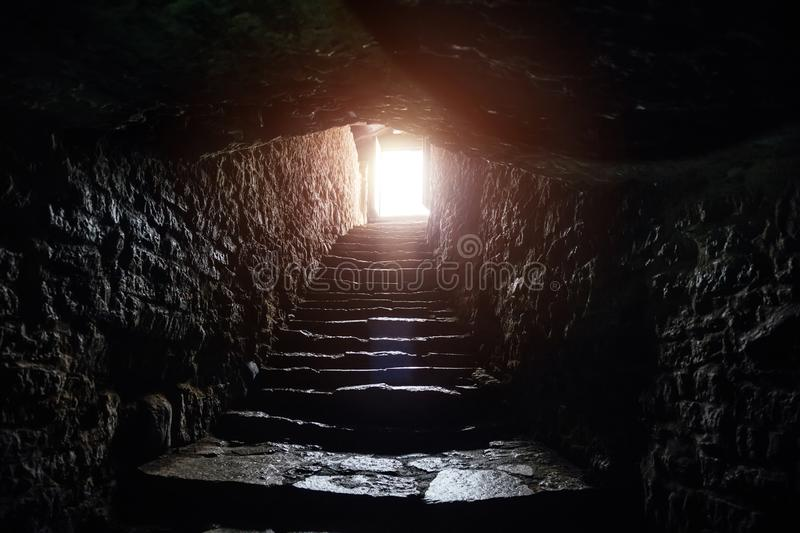
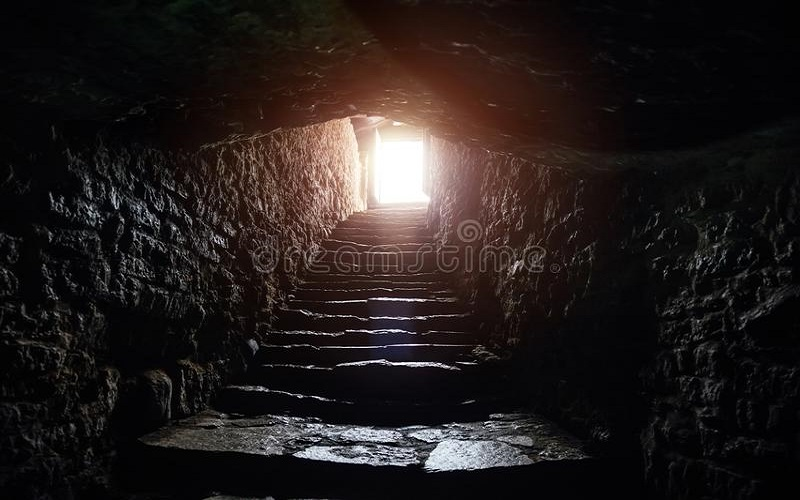
set up main image display, added images to maptile

diff --git a/src/app/classes/MapTiles.ts b/src/app/classes/MapTiles.ts
@@ -4,13 +4,15 @@ class MapTile {
     intro: string;
     description: string;
     type: string;
+    image: string;
 
-    constructor(x: number, y: number, intro: string, description: string, type: string) {
+    constructor(x: number, y: number, intro: string, description: string, type: string, image: string) {
         this.x = x;
         this.y = y;
         this.intro = intro;
         this.description = description;
         this.type = type;
+        this.image = image;
     }
 }
 
@@ -19,7 +21,8 @@ class StartTile extends MapTile {
         const intro = 'You open your eyes to see the dimly lit interior of a room you don\'t recognize.';
         const description = 'The room appears to be empty.';
         const type = 'StartTile';
-        super(x, y, intro, description, type);
+        const image = 'starting-tile.jpg';
+        super(x, y, intro, description, type, image);
     }
 }
 
@@ -28,7 +31,8 @@ class EmptyRoomTile extends MapTile {
         const intro = 'You step into a room that appears to be empty and unimportant.';
         const description = 'Looking around you notice nothing of import.';
         const type = 'EmptyRoomTile';
-        super(x, y, intro, description, type);
+        const image = 'empty-room.jpg';
+        super(x, y, intro, description, type, image);
     }
 }
 
@@ -38,7 +42,8 @@ class ExitTile extends MapTile {
         intro += 'That\'s not just any light.... it\'s the sun!  You\'ve found the exit!';
         const description = 'The light of the sun hurts your eyes as fresh air fills your lungs. ';
         const type = 'ExitTile';
-        super(x, y, intro, description, type);
+        const image = 'exit-tile.jpg';
+        super(x, y, intro, description, type, image);
     }
 }
 

diff --git a/src/app/pages/dungeon/dungeon.component.html b/src/app/pages/dungeon/dungeon.component.html
@@ -3,7 +3,7 @@
     <div class="hud-container">
         <app-hero-panel [stats]="player.getStats()"></app-hero-panel>
         <div class="middle-column">
-            <div class="temp-main-display placeholder"></div>
+            <img class="main-image" [src]="getCurrentImage()" alt="main.jpg">
             <div class="terminal">
                 <app-terminal-display [messages]="messages"></app-terminal-display>
                 <app-terminal-input (issueCommand)="issueCommand($event)"></app-terminal-input>

diff --git a/src/app/pages/dungeon/dungeon.component.ts b/src/app/pages/dungeon/dungeon.component.ts
@@ -222,6 +222,17 @@ export class DungeonComponent implements OnInit {
     this.output(currentTile.intro);
   }
 
+  getCurrentImage(): string {
+    const image = '../../../assets/images/backgrounds/' + this.currentTile().image;
+    return image;
+  }
+
+  currentTile(): MapTile | undefined {
+    const x = this.player.x;
+    const y = this.player.y;
+    return this.tileAt(x, y);
+  }
+
   tileAt(x: number, y: number): MapTile | undefined{
     if (x < 0 || y < 0){ return undefined; }
 

diff --git a/src/app/pages/dungeon/dungeon.component.scss b/src/app/pages/dungeon/dungeon.component.scss
@@ -6,9 +6,13 @@
         justify-content: space-between;
 
         .middle-column {
-            width: 100%;
+            width: 60%;
             padding: 2rem;
             padding-top: 0px;
+
+            .main-image {
+                width: 100%;
+            }
 
             .terminal {
                 margin-top: 2rem;
